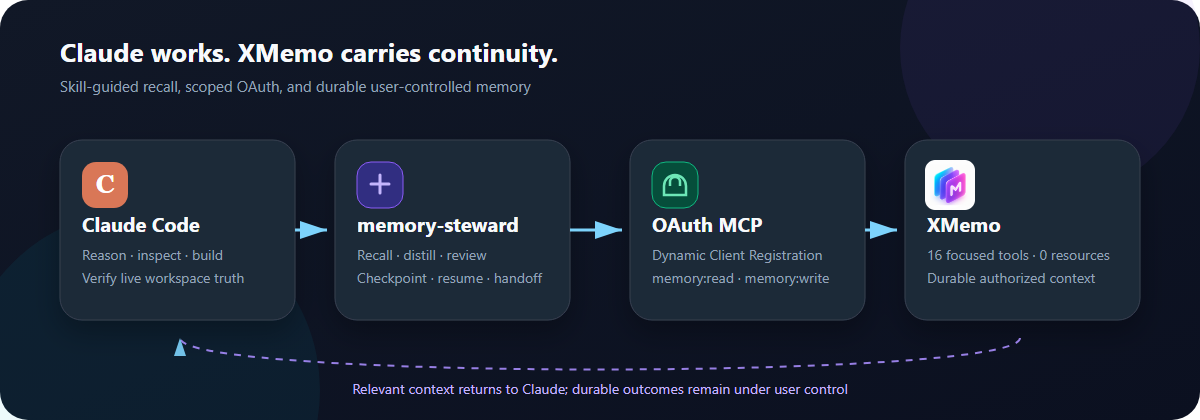
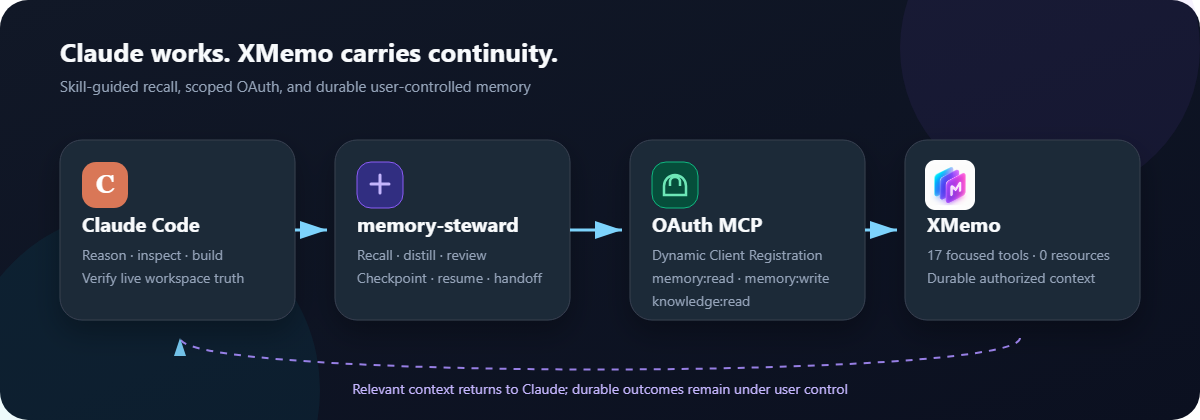
feat: request read-only knowledge:read scope (1.0.7)
XMemo v0.4.464 advertises memory:read memory:write knowledge:read in its MCP
OAuth challenge. The plugin pins its scopes in .mcp.json, so it kept
requesting memory scopes only and recall_context could not include the
user's Knowledge items. Request knowledge:read as well; never knowledge:write.

Update the README, PRIVACY.md, tool-routing.md, the package validator, and
the architecture diagram (SVG + rendered PNG; tool count 16 -> 17 to match
the README). Existing connections reconnect to gain the new scope.

diff --git a/scripts/validate-package.py b/scripts/validate-package.py
@@ -196,8 +196,8 @@ def validate_mcp(errors: list[str]) -> None:
         fail(errors, ".mcp.json xmemo.type must be 'http'")
     if server.get("url") != "https://xmemo.dev/mcp":
         fail(errors, ".mcp.json must use the production XMemo MCP endpoint")
-    if server.get("oauth", {}).get("scopes") != "memory:read memory:write":
-        fail(errors, ".mcp.json must request exactly memory:read memory:write")
+    if server.get("oauth", {}).get("scopes") != "memory:read memory:write knowledge:read":
+        fail(errors, ".mcp.json must request exactly memory:read memory:write knowledge:read")
 
     encoded = json.dumps(config).lower()
     for forbidden in ("api_key", "xmemokey", "bearer ", "client_secret", "password"):

diff --git a/README.md b/README.md
@@ -8,7 +8,7 @@ Recall the context behind the work, preserve verified decisions and progress,
 and hand projects across sessions without archiving raw conversations.
 
 [![Validation](https://img.shields.io/github/actions/workflow/status/yonro/xmemo-claude-plugin/validate.yml?branch=main&style=flat-square&logo=githubactions&logoColor=white&label=validation)](https://github.com/yonro/xmemo-claude-plugin/actions/workflows/validate.yml)
-![Plugin version](https://img.shields.io/badge/plugin-v1.0.6-8B5CF6?style=flat-square)
+![Plugin version](https://img.shields.io/badge/plugin-v1.0.7-8B5CF6?style=flat-square)
 [![License](https://img.shields.io/github/license/yonro/xmemo-claude-plugin?style=flat-square)](LICENSE)
 ![Claude plugin](https://img.shields.io/badge/Claude-Anthropic%20Directory-D97757?style=flat-square)
 ![Hosted MCP](https://img.shields.io/badge/MCP-hosted-06B6D4?style=flat-square)
@@ -41,11 +41,11 @@ plugin's XMemo server as a custom connector (see [Quick start](#quick-start)).
 | Plugin ID | `xmemo` |
 | Skills | Nine professional workflows under `/xmemo:*` |
 | Automation | Fail-open lifecycle checkpoint Hook (Claude Code and Cowork) |
-| Version | `1.0.6` |
+| Version | `1.0.7` |
 | Bundle | Claude Skill suite + checkpoint Hook + hosted MCP configuration |
 | MCP endpoint | `https://xmemo.dev/mcp` |
 | Authentication | OAuth 2.0 browser sign-in with Dynamic Client Registration |
-| Requested scopes | `memory:read memory:write` |
+| Requested scopes | `memory:read memory:write knowledge:read` |
 | Tools | The Skills call 17 tools, only on the plugin's own OAuth connection; they use no other connection's credentials |
 | MCP resources | None |
 | Local Hook state | Bounded metadata only under `CLAUDE_PLUGIN_DATA`; no transcript content |
@@ -99,8 +99,8 @@ see [Use plugins in Claude](https://support.claude.com/en/articles/13837440-use-
 2. Open the plugin's **Connectors** tab and select **Connect** next to `xmemo`.
    Until the XMemo connector is listed in the directory, Claude offers to add it
    as a custom connector with `https://xmemo.dev/mcp` already filled in.
-3. Sign in to XMemo in the browser window and approve `memory:read` and
-   `memory:write`.
+3. Sign in to XMemo in the browser window and approve `memory:read`,
+   `memory:write`, and `knowledge:read`.
 4. Start a new conversation and run `/xmemo:get-started`, pick another Skill from
    the `/` menu, or ask naturally.
 
@@ -111,7 +111,7 @@ saves checkpoints only when a Skill or your request calls for one.
 
 1. Run `/plugin`, find **XMemo** in the marketplace, and install it.
 2. Run `/mcp`, select the XMemo server, and complete the browser sign-in for
-   `memory:read` and `memory:write`.
+   `memory:read`, `memory:write`, and `knowledge:read`.
 3. Run `/xmemo:get-started` to see what XMemo already knows about the current
    project and seed its first memories.
 4. Invoke a focused workflow such as `/xmemo:resume-work`, use
@@ -370,8 +370,10 @@ Synthetic evaluation prompts are maintained in
 - OAuth tokens stay in Claude's credential storage.
 - The repository contains no password, API key, bearer token, OAuth code,
   cookie, reviewer credential, or private memory.
-- The plugin pins `memory:read memory:write` rather than relying on broader
-  discovered scopes.
+- The plugin pins `memory:read memory:write knowledge:read` rather than relying
+  on broader discovered scopes. `knowledge:read` is read-only: it lets
+  `recall_context` include items from the user's XMemo Knowledge bases. The
+  plugin never requests `knowledge:write`.
 - The Hook uses the official exec-form `node` pattern, is fail-open, opens no
   network connection, spawns no subprocess, and keeps only bounded local state.
 - The Hook does not inspect or store Claude transcripts or tool responses.
@@ -416,7 +418,7 @@ Canonical service policies:
 | Service | `https://xmemo.dev` |
 | MCP endpoint | `https://xmemo.dev/mcp` |
 | Authentication | OAuth 2.0 + Dynamic Client Registration |
-| Scopes | `memory:read memory:write` |
+| Scopes | `memory:read memory:write knowledge:read` |
 | Tools | Skills call 17, only on the plugin's own OAuth connection; no other connection's credentials |
 | Repository | `https://github.com/yonro/xmemo-claude-plugin` |
 | Directory state | Plugin published; connector under review |

diff --git a/skills/memory-steward/references/tool-routing.md b/skills/memory-steward/references/tool-routing.md
@@ -4,7 +4,7 @@ Use only tools visible in the active XMemo MCP connection. This plugin does not 
 
 ## Connection rule
 
-The Skills use only the XMemo connection that this plugin configures and authorizes itself (`.mcp.json`, OAuth scopes `memory:read memory:write`). The host may show its tools with a prefix, such as `mcp__plugin_xmemo_xmemo__recall`. Match tools by the names below, not by the prefix. Do not route the Skills through any other connection or its credentials.
+The Skills use only the XMemo connection that this plugin configures and authorizes itself (`.mcp.json`, OAuth scopes `memory:read memory:write knowledge:read`). `knowledge:read` is read-only and lets `recall_context` include items from the user's XMemo Knowledge bases. The host may show its tools with a prefix, such as `mcp__plugin_xmemo_xmemo__recall`. Match tools by the names below, not by the prefix. Do not route the Skills through any other connection or its credentials.
 
 Before reporting that XMemo is disconnected, check whether any XMemo tool is available. If none is, or a needed tool is missing:
 

diff --git a/CHANGELOG.md b/CHANGELOG.md
@@ -2,6 +2,12 @@
 
 All notable changes to the XMemo Claude plugin are documented here.
 
+## 1.0.7 - 2026-11-03
+
+- Request the read-only `knowledge:read` scope in addition to `memory:read memory:write`, so `recall_context` can include items from the user's XMemo Knowledge bases. XMemo v0.4.464 advertises the same three scopes in its MCP OAuth challenge. The plugin still never requests `knowledge:write`.
+- Existing connections keep their earlier grant: reconnect XMemo (`/mcp` in Claude Code, or the plugin's Connectors tab) to add `knowledge:read`.
+- Update the README, `PRIVACY.md`, `tool-routing.md`, the package validator, and the architecture diagram to match. The diagram now shows 17 tools, matching the README.
+
 ## 1.0.6 - 2026-10-29
 
 - Route the Skills only through the XMemo connection this plugin configures and authorizes itself. Remove the 1.0.5 guidance that let the Skills use the claude.ai XMemo Connector or a direct MCP configuration, and remove the "Other XMemo tools" guidance.

diff --git a/PRIVACY.md b/PRIVACY.md
@@ -25,6 +25,8 @@ authorized XMemo MCP connection.
 
 The service may process project context, decisions, preferences, working state, TODOs, handoff notes, and Ledger entries that the user chooses to send. This data supports recall, search, continuity, review, export, and user-directed lifecycle operations.
 
+With the `knowledge:read` scope, Claude may also read items from the user's XMemo Knowledge bases when they are relevant to a request. The plugin does not request `knowledge:write`, so it cannot create or change Knowledge content.
+
 ## Credentials
 
 - OAuth tokens are managed by Claude Code and must never be committed to this repository.
